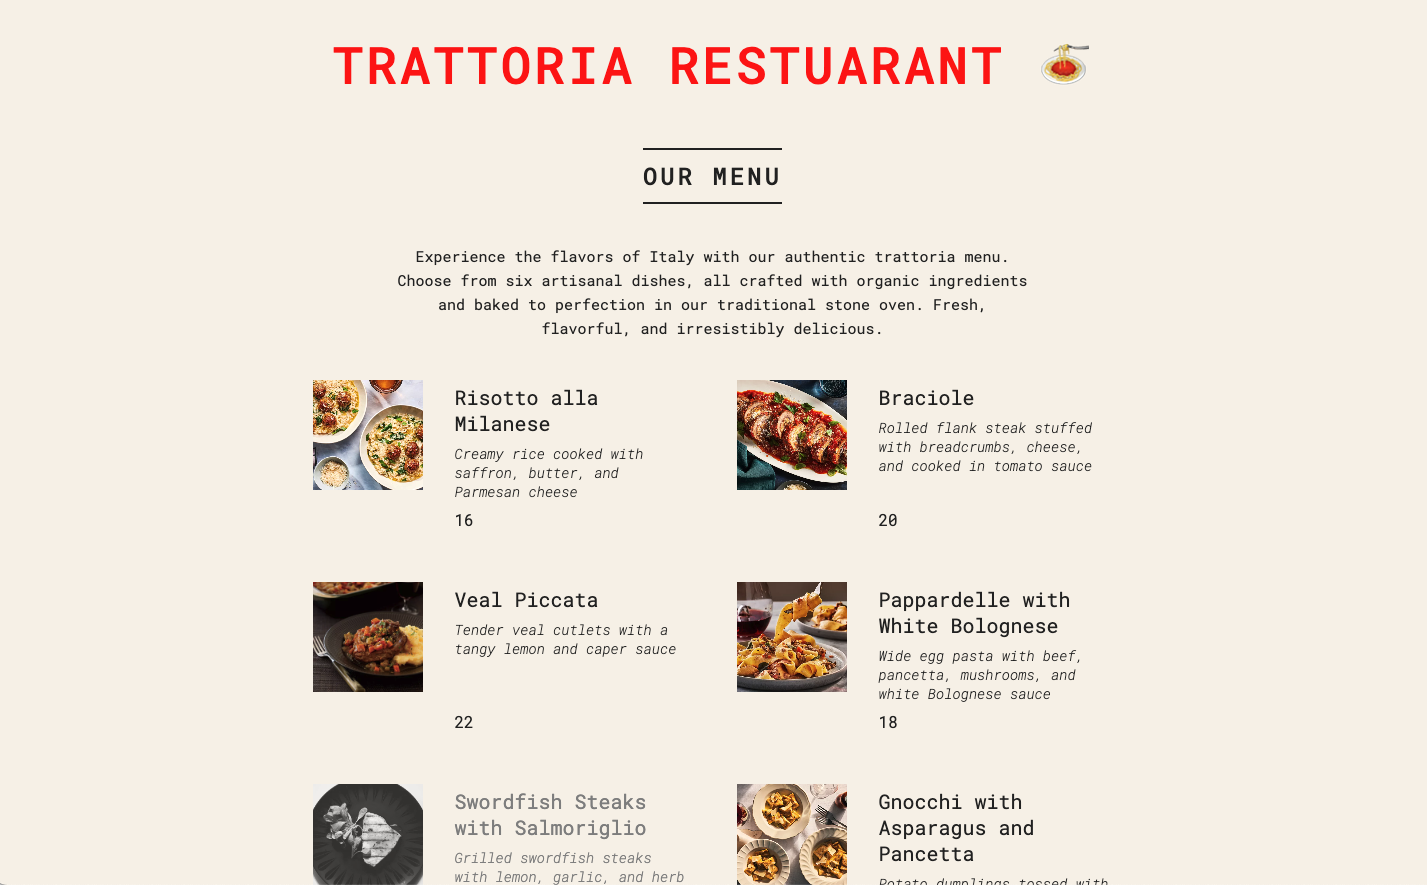
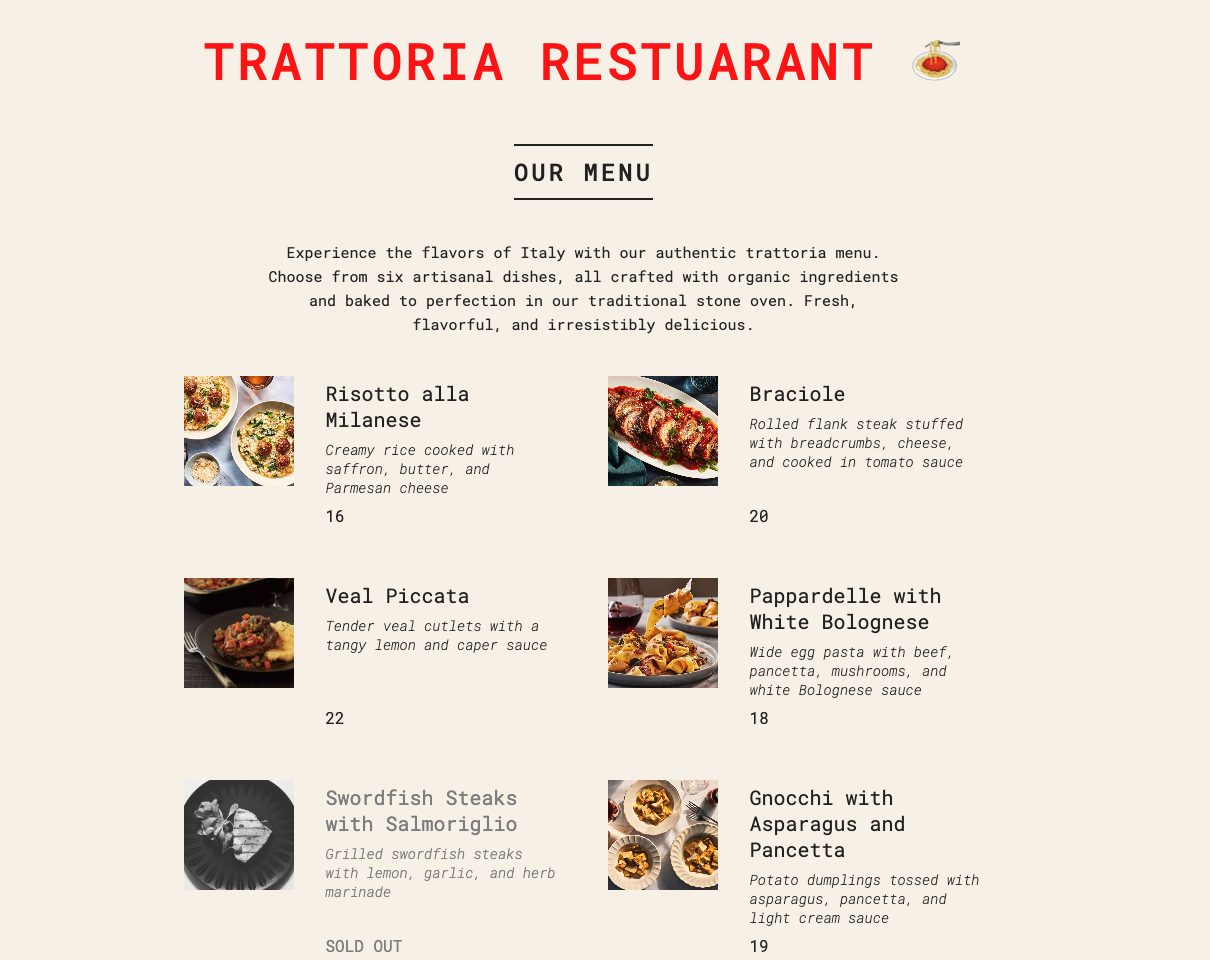
organise my works componend

diff --git a/src/Components/MyWork/MyWork.css b/src/Components/MyWork/MyWork.css
@@ -33,10 +33,23 @@
   color: white;
 }
 
-.work-container img {
-  width: 100%;
-  cursor: pointer;
+.porfolio-img-cont {
+  flex: 1 1 300px; /* Flex-grow, shrink, and basis. Adjust the 300px as per your design */
+  max-width: 300px; /* Adjust width according to preference */
+  height: 0;
+  padding-bottom: 75%; /* Maintain 4:3 aspect ratio (you can adjust this to 100% for square images) */
+  position: relative;
+  overflow: hidden;
   border-radius: 5%;
+}
+
+.work-container img {
+  position: absolute;
+  top: 0;
+  left: 0;
+  width: 100%;
+  height: 100%;
+  object-fit: cover;
 }
 
 .work-container .porfolio-item:hover {

diff --git a/src/Components/MyWork/MyWork.jsx b/src/Components/MyWork/MyWork.jsx
@@ -13,7 +13,10 @@ function MyWork() {
           return (
             <a href={work.link || "#"} target="_blank" key={index} rel="noopener noreferrer">
               <div className="porfolio-item">
-                <img src={work.img} alt="my work" />
+                <div className="porfolio-img-cont">
+                  <img src={work.img} alt="my work" />
+                </div>
+
                 <p className="work-title">{work.title}</p>
                 <p className="work-description">{work.description}</p>
               </div>
